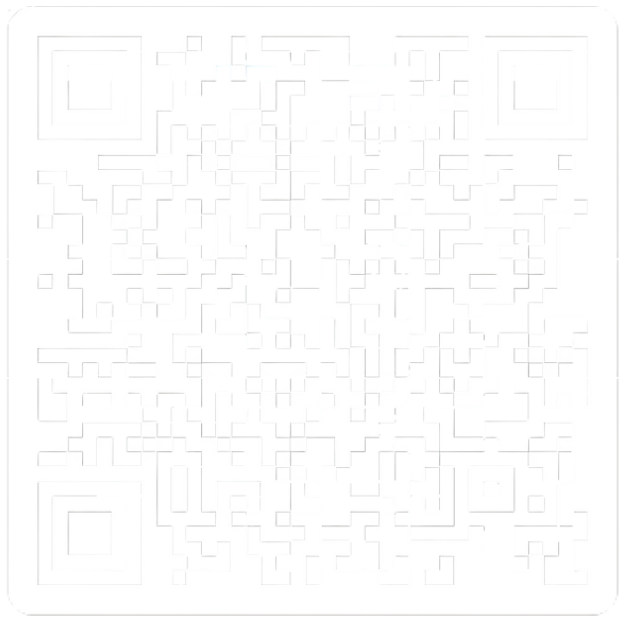
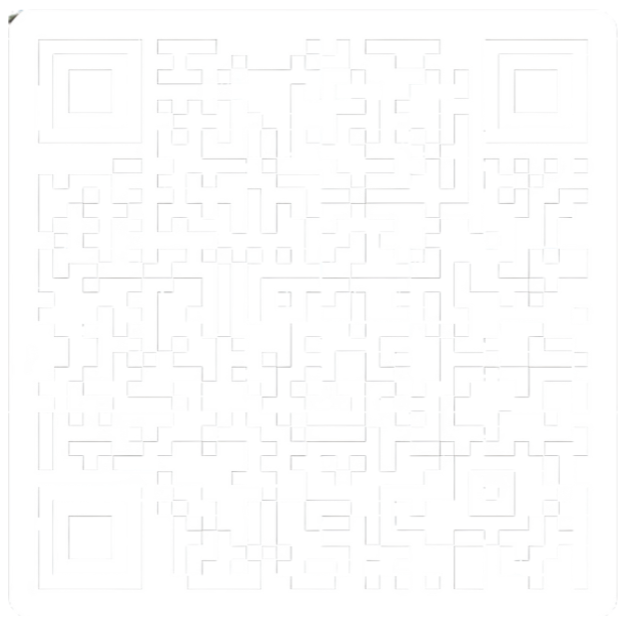
Update QR code and Wayground link in post_test.html

diff --git a/post_test.html b/post_test.html
@@ -356,7 +356,7 @@
                 <span
                   class="code-text"
                   id="codeText"
-                  >13051466</span
+                  >42082250</span
                 >
                 <button
                   class="copy-btn"
@@ -385,7 +385,7 @@
 
           <!-- Wayground button -->
           <a
-            href="https://wayground.com/join?gc=13051466"
+            href="https://wayground.com/join?gc=42082250"
             class="wayground-btn"
             target="_blank"
             rel="noopener noreferrer"
